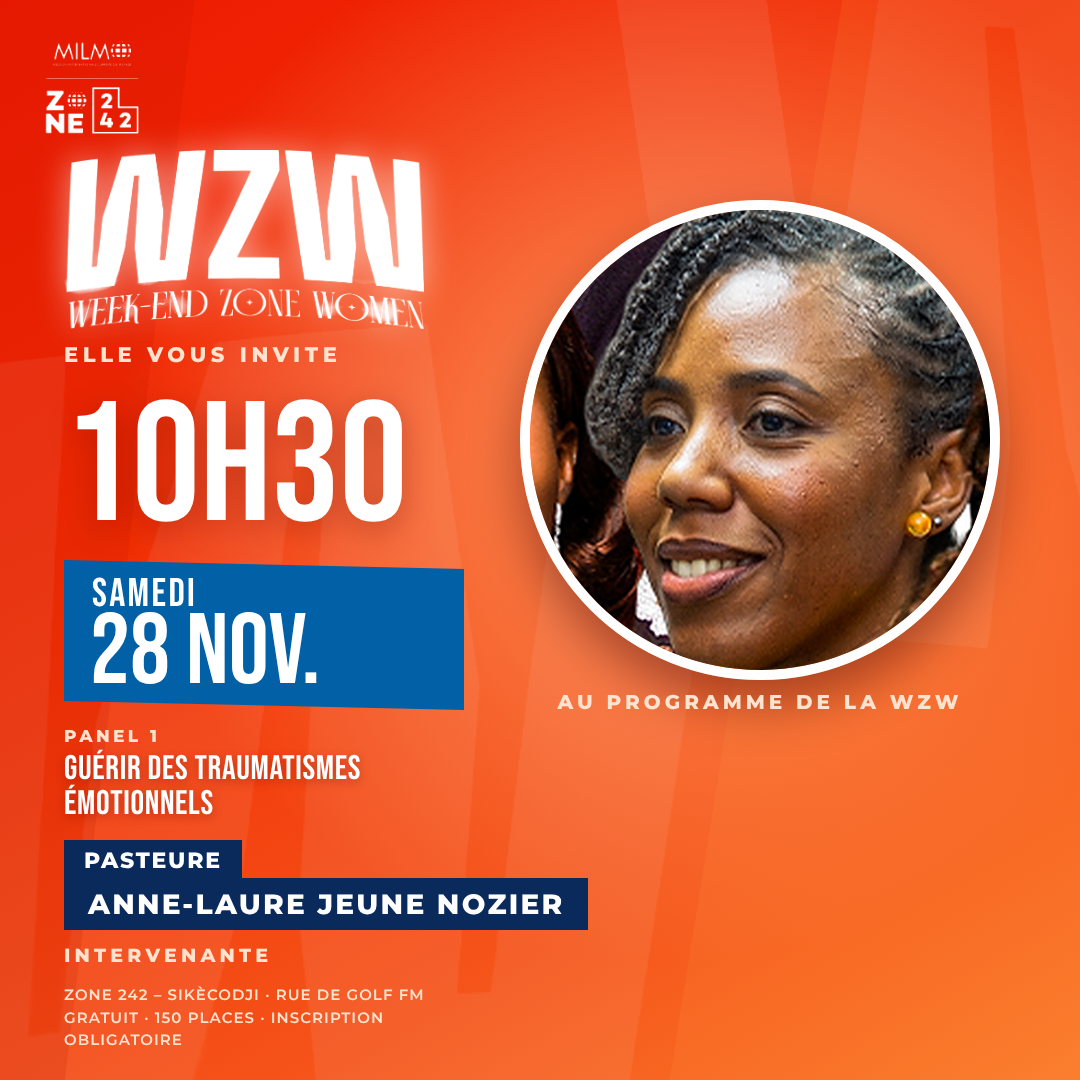
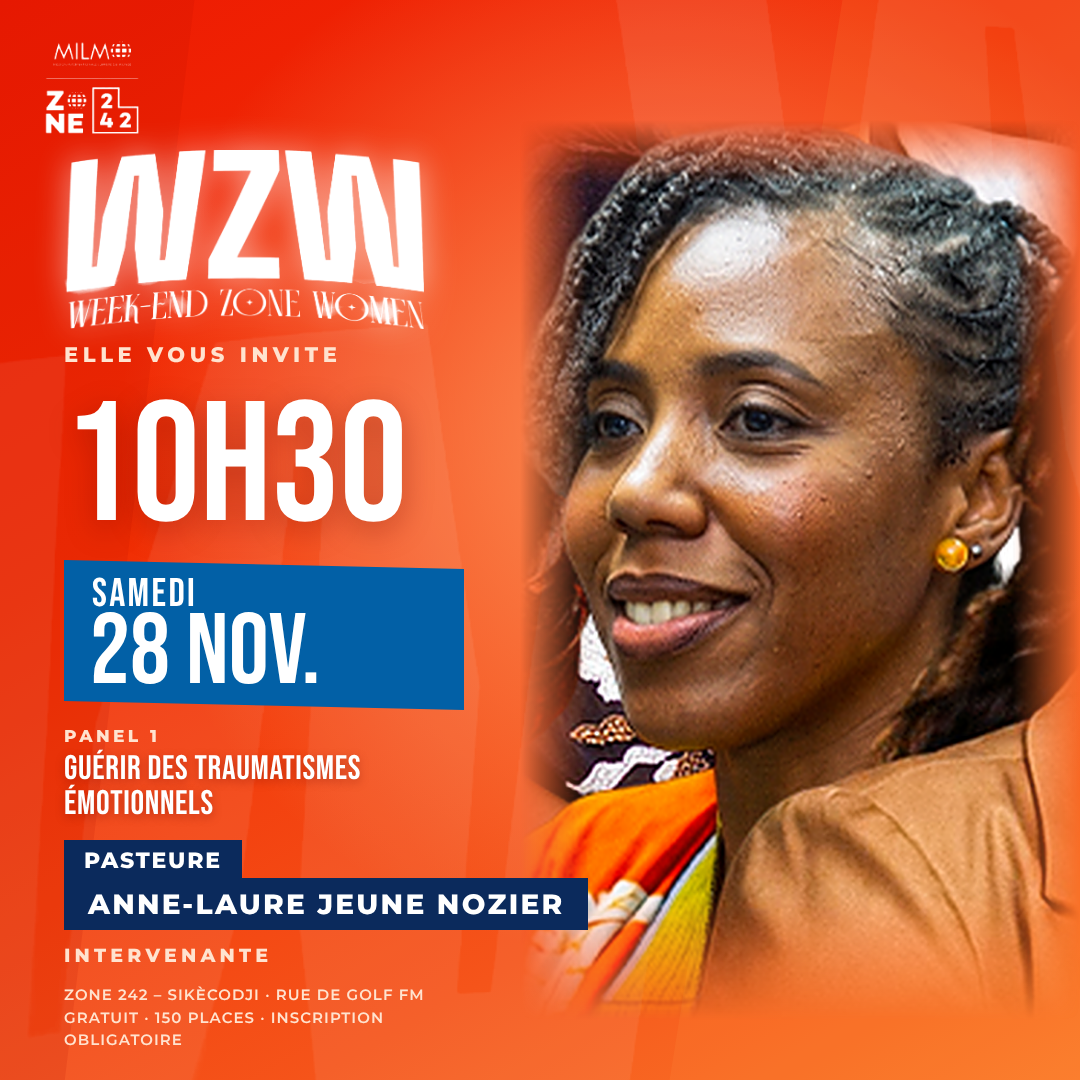
Visuel Anne-Laure : photo de l'affiche officielle exploitée en entier
Claude-Session: https://claude.ai/code/session_01MwjzxB6vNBUzfK55D3M67f

diff --git a/zone242-com-session/livrables/scripts-sources/affiche_invitee_panel.py b/zone242-com-session/livrables/scripts-sources/affiche_invitee_panel.py
@@ -10,9 +10,9 @@ T = OUT / "_res"; T.mkdir(exist_ok=True)
 for src, n in [("teaser-wzw-reels/assets/montserrat-latin-600-normal.woff2", "m6.woff2"), ("teaser-wzw-reels/assets/montserrat-latin-800-normal.woff2", "m8.woff2"), ("teaser-wzw-reels/assets/bebas-neue-latin-400-normal.woff2", "bb.woff2"),
                ("un-mot-une-session-reels/assets/lockup.png", "lockup.png"), ("presentation-dr-hestia/assets/logos_alpha.png", "logos.png"), ("teaser-wzw-reels/assets/W1.png", "w1.png"), ("teaser-wzw-reels/assets/W2.png", "w2.png")]:
     shutil.copy(R / src, T / n)
-BOX = {"A": (225, 360, 455, 590), "B": (240, 592, 450, 802)}[sys.argv[2]]
+BOX = {"A": (225, 360, 455, 590), "B": (268, 585, 462, 905)}[sys.argv[2]]
 P = Image.open(HERE / "affiche_officielle_16x9_reference.png").convert("RGB").crop(BOX)
-P = P.resize((720, 720), Image.LANCZOS).filter(ImageFilter.UnsharpMask(2, 60, 3)); P.save(T / "p.png")
+P = P.resize((P.width * 3, P.height * 3), Image.LANCZOS).filter(ImageFilter.UnsharpMask(2, 60, 3)); P.save(T / "p.png")
 CSS = """@font-face{font-family:B;src:url(bb.woff2)}@font-face{font-family:M;font-weight:600;src:url(m6.woff2)}@font-face{font-family:M;font-weight:800;src:url(m8.woff2)}
 *{margin:0;padding:0;box-sizing:border-box}body{width:1080px;height:1080px;position:relative;overflow:hidden;font-family:B;color:#fff;background:linear-gradient(150deg,#ee1a02 0%,#f12e04 36%,#f5541a 74%,#fb7a2a 100%)}
 .a{position:absolute}.lock{filter:drop-shadow(0 0 16px rgba(255,255,255,.55))}.mary{filter:drop-shadow(0 18px 34px rgba(70,0,0,.4))}
@@ -22,8 +22,7 @@ body = ('<div class="a" style="inset:0;background:radial-gradient(ellipse at 62%
  '<img class="a" src="w1.png" style="left:-140px;top:300px;height:900px;opacity:.07;filter:brightness(2)"><img class="a" src="w2.png" style="left:600px;top:-120px;height:820px;opacity:.07;filter:brightness(2)">'
  '<div class="a" style="inset:0;background:#b80f00;opacity:.14;clip-path:polygon(0 0,18% 0,6% 100%,0 100%)"></div><div class="a" style="inset:0;background:#ff9a4a;opacity:.14;clip-path:polygon(78% 0,100% 0,100% 100%,62% 100%)"></div>'
  '<img class="a" src="logos.png" style="left:40px;top:36px;width:104px">'
- '<div class="a" style="left:520px;top:200px;width:480px;height:480px;border-radius:50%;border:10px solid #fff;overflow:hidden;box-shadow:0 24px 50px rgba(70,0,0,.45)"><img src="p.png" style="width:100%;height:100%;display:block"></div>'
- '<div class="a" style="left:490px;top:690px;width:540px;text-align:center;font-family:M;font-weight:800;font-size:20px;letter-spacing:.2em;color:#ffe3cf">AU PROGRAMME DE LA WZW</div>'
+ '<div class="a" style="left:520px;top:120px;width:560px;height:900px;overflow:hidden;-webkit-mask-image:linear-gradient(180deg,transparent 0,#000 7%,#000 86%,transparent 100%);mask-image:linear-gradient(180deg,transparent 0,#000 7%,#000 86%,transparent 100%)"><img src="p.png" style="position:absolute;left:0;top:0;width:560px;height:auto;-webkit-mask-image:linear-gradient(90deg,transparent 0,#000 12%,#000 88%,transparent 100%);mask-image:linear-gradient(90deg,transparent 0,#000 12%,#000 88%,transparent 100%);filter:drop-shadow(0 14px 30px rgba(70,0,0,.35))"></div>'
  '<img class="a lock" src="lockup.png" style="left:64px;top:150px;width:360px">'
  '<div class="a ft" style="left:64px;top:342px;font-size:21px;letter-spacing:.22em">ELLE VOUS INVITE</div>'
  '<div class="a" style="left:64px;top:400px;font-size:170px;line-height:.82;text-shadow:0 8px 30px rgba(110,10,0,.35)">10H30</div>'
